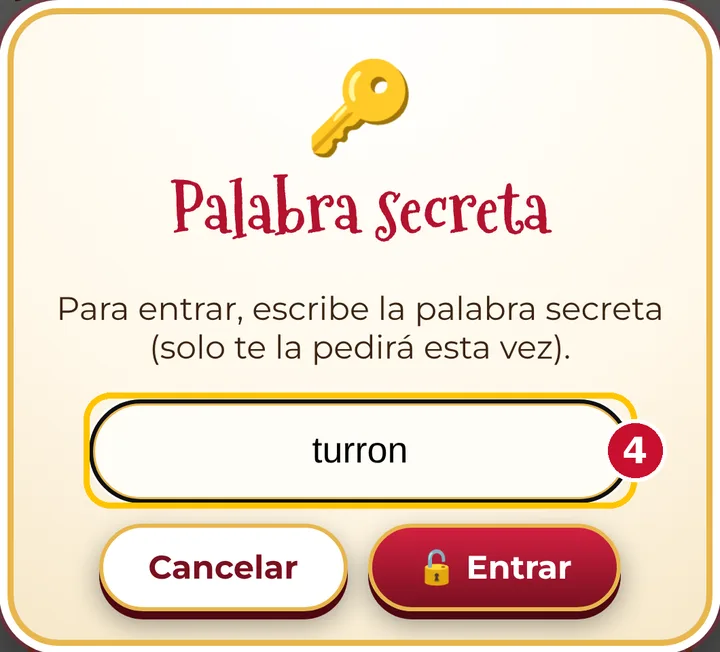
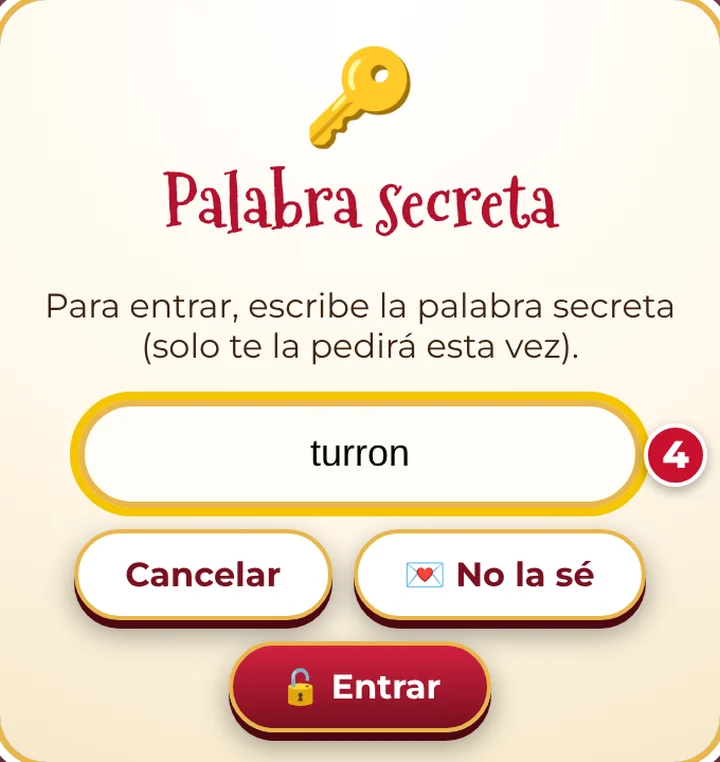
V29.4

diff --git a/help.js b/help.js
@@ -377,6 +377,7 @@ function userSections() {
     shot('word'),
     el('div', { class: 'hg-nums' },
       num(4, '🔑', L('La palabra secreta', 'La paraula secreta', 'The secret word'), L('Te la da la administradora (Mamá Noel). Es la misma para todos. Da igual mayúsculas o acentos.', 'Te la dona l’administradora (la Mare Noel). És la mateixa per a tothom. És igual majúscules o accents.', 'The admin (Mrs Claus) gives it to you. It is the same for everyone. Capitals and accents don’t matter.'))),
+    tip(L('¿No sabes la palabra secreta? Pulsa ', 'No saps la paraula secreta? Prem ', 'Don’t know the secret word? Tap '), btn(L('💌 No la sé', '💌 No la sé', '💌 I don’t know it')), L(' y después «Escribir a Mamá Noel»: se abre un correo ya escrito. Ella sabrá que quieres entrar y te enviará la palabra.', ' i després «Escriure a la Mare Noel»: s’obre un correu ja escrit. Ella sabrà que vols entrar i t’enviarà la paraula.', ' and then “Write to Mrs Claus”: a ready-written email opens. She’ll know you want to join and will send you the word.')),
     el('div', { class: 'hg-bigsep' }, '⬇'),
     P(L('Después, la app te enseña tu PIN en grande:', 'Després, l’app t’ensenya el teu PIN en gran:', 'Then the app shows you your PIN in big numbers:')),
     shot('pin'),
@@ -435,8 +436,8 @@ function userSections() {
       el('span', {}, L('Aparece una ', 'Apareix una ', 'A '), B(L('nota', 'nota', 'note')), L(' con el reto del día. ¡Léela con calma!', ' amb el repte del dia. Llegeix-la amb calma!', ' appears with the day’s challenge. Read it calmly!')),
       el('span', {}, L('Haz el reto y pulsa ', 'Fes el repte i prem ', 'Do the challenge and tap '), btn(FIN, 'red'), '.')),
     P(L('Si no puedes hacerlo en ese momento, pulsa ', 'Si no ho pots fer en aquell moment, prem ', 'If you can’t do it right then, tap '), btn(L('Cancelar (lo haré luego)', 'Cancel·lar (ho faré després)', 'Cancel (I’ll do it later)')), L(' y vuelve más tarde.', ' i torna més tard.', ' and come back later.')),
-    warn(L('Cada reto se responde ', 'Cada repte es respon ', 'Each challenge can be answered '), B(L('una sola vez', 'una sola vegada', 'only once')), L('. Si vuelves a abrir la casilla, verás lo que contestaste.', '. Si tornes a obrir la casella, veuràs el que vas contestar.', '. If you open the box again, you’ll see what you answered.')),
-    tip(L('Si te dejas un día, lo puedes hacer al día siguiente… ¡pero mejor no dejarlo pasar mucho!', 'Si et deixes un dia, el pots fer l’endemà… però millor no deixar-ho passar gaire!', 'If you miss a day, you can do it the next day… but better not to leave it too long!')),
+    P(L('Las preguntas se contestan ', 'Les preguntes es contesten ', 'Questions are answered '), B(L('una sola vez', 'un sol cop', 'only once')), L('. Los juegos los puedes repetir siempre que quieras: al volver a abrir una casilla hecha, verás el juego, los otros juegos del día y tu actividad.', '. Els jocs els pots repetir sempre que vulguis: quan tornis a obrir una casella feta, veuràs el joc, els altres jocs del dia i la teva activitat.', '. Games can be replayed whenever you like: when you reopen a finished box you’ll see the game, the day’s other games and your activity.')),
+    tip(L('Si te dejas un día, lo puedes hacer cuando puedas: las casillas de los días que ya han pasado siempre se pueden abrir. ¡Pero mejor no dejarlo pasar mucho!', 'Si et deixes un dia, el pots fer quan puguis: les caselles dels dies que ja han passat sempre es poden obrir. Però millor no deixar-ho passar gaire!', 'If you miss a day, you can do it whenever you can: boxes from past days can always be opened. But better not leave it too long!')),
   ] },
   (() => {
     if (!S.user) return { id: 'u-fig', ico: () => fig('galleta.png'), color: '#7c3aed', title: L('Las figuras: galleta, árbol y gnomo', 'Les figures: galeta, arbre i gnom', 'The figures: gingerbread, tree and gnome'), body: () => [
@@ -540,12 +541,46 @@ function userSections() {
     P(L('Para ganar cada premio puedes fallar o dejarte sin hacer ', 'Per guanyar cada premi pots fallar o deixar sense fer ', 'To win each prize you can get wrong or skip '), B(L('como mucho 3 casillas', 'com a màxim 3 caselles', 'at most 3 boxes')), L(', contando desde el día 1.', ', comptant des del dia 1.', ', counting from day 1.')),
     mock(L('🏆 Premios', '🏆 Premis', '🏆 Prizes'), ...[10, 15, 20, 25].map(g => el('div', { class: 'hg-prize' }, el('span', {}, '🎁'), el('div', {}, B(L(`Del día 1 al ${g}`, `Del dia 1 al ${g}`, `Day 1 to ${g}`)), el('small', {}, L('El regalo y cómo vas: ✅ bien · ❌ mal', 'El regal i com vas: ✅ bé · ❌ malament', 'The gift and how you’re doing: ✅ right · ❌ wrong')))))),
     P(L('Pulsa el ', 'Prem el ', 'Tap the '), B(L('trofeo 🏆', 'trofeu 🏆', 'trophy 🏆')), L(' de la franja para ver los regalos y cuántas casillas llevas bien y mal. Toca un regalo para ver el detalle.', ' de la franja per veure els regals i quantes caselles portes bé i malament. Toca un regal per veure’n el detall.', ' in the row to see the gifts and how many boxes you have right and wrong. Tap a gift to see the details.')),
+    P(L('Cuando consigues un regalo, sale un aviso con confeti (', 'Quan aconsegueixes un regal, surt un avís amb confeti (', 'When you win a present, a notice with confetti appears ('), B(L('solo una vez', 'només un cop', 'only once')), L('). Lo puedes volver a mirar siempre que quieras desde el trofeo 🏆.', '). El pots tornar a mirar sempre que vulguis des del trofeu 🏆.', '). You can look at it again whenever you like from the trophy 🏆.')),
     tip(L('Si un premio se escapa, ¡sigues jugando por los demás!', 'Si un premi s’escapa, continues jugant pels altres!', 'If you miss a prize, you keep playing for the others!')),
   ] },
-  { id: 'u-special', ico: '⭐', color: '#db2777', title: L('Días especiales', 'Dies especials', 'Special days'), body: () => [
-    P(L('Casi todos los días hay una pregunta con 4 respuestas, pero algunos días son ', 'Gairebé cada dia hi ha una pregunta amb 4 respostes, però alguns dies són ', 'Most days there is a question with 4 answers, but some days are '), B(L('juegos especiales', 'jocs especials', 'special games')), L(': atrapar gorros de Papá Noel, buscar renos, encontrar diferencias, una ruleta de misiones, un baile secreto… y el día 25, ¡tu cara en Papá Noel! 🎅', ': atrapar barrets del Pare Noel, buscar rens, trobar diferències, una ruleta de missions, un ball secret… i el dia 25, la teva cara al Pare Noel! 🎅', ': catching Santa hats, finding reindeer, spotting differences, a mission wheel, a secret dance… and on day 25, your face on Santa! 🎅')),
-    P(L('En cada juego la nota te explica qué hay que hacer. Si hay que grabarse o hacerse una foto, la app te ayuda a compartirla por WhatsApp.', 'A cada joc la nota t’explica què cal fer. Si t’has de gravar o fer una foto, l’app t’ajuda a compartir-la per WhatsApp.', 'In each game the note explains what to do. If you need to record yourself or take a photo, the app helps you share it on WhatsApp.')),
+  { id: 'u-special', ico: '🎮', color: '#db2777', title: L('Los juegos de cada día', 'Els jocs de cada dia', 'Each day’s games'), body: () => [
+    P(L('Cada casilla esconde un ', 'Cada casella amaga un ', 'Each box hides a '), B(L('juego o un reto', 'joc o un repte', 'game or a challenge')), L('. Estos son los 25:', '. Aquests són els 25:', '. Here are all 25:')),
+    el('div', { class: 'hg-list hg-days' },
+      item('🎅 1', L('Atrapa los 3 gorros + 4 en raya', 'Atrapa els 3 barrets + 4 en ratlla', 'Catch the 3 hats + Connect 4'), ''),
+      item('🎁 2', L('El duende de los regalos (comecocos)', 'El follet dels regals (menjacocos)', 'The present elf (Pac-Man style)'), ''),
+      item('🔢 3', L('Sudoku de Navidad', 'Sudoku de Nadal', 'Christmas sudoku'), ''),
+      item('🦌 4', L('Los renos traviesos', 'Els rens entremaliats', 'The cheeky reindeer'), ''),
+      item('🎨 5', L('Desafío de colores', 'Desafiament de colors', 'Colour challenge'), ''),
+      item('🔍 6', L('Las 5 diferencias', 'Les 5 diferències', 'Spot the 5 differences'), ''),
+      item('🚂 7', L('Puzle del tren', 'Puzle del tren', 'Train puzzle'), ''),
+      item('🎄 8', L('Decora el árbol + Dulce Navidad', 'Decora l’arbre + Dolç Nadal', 'Decorate the tree + Sweet Christmas'), ''),
+      item('🎵 9', L('Papá Noel dice', 'El Pare Noel diu', 'Santa says'), ''),
+      item('🪿 10', L('La oca de Navidad', 'L’oca de Nadal', 'The Christmas goose game'), ''),
+      item('🧭 11', L('Los regalos perdidos (laberinto)', 'Els regals perduts (laberint)', 'The lost presents (maze)'), ''),
+      item('🎲 12', L('El parchís de Navidad', 'El parxís de Nadal', 'Christmas ludo'), ''),
+      item('🦸 13', L('Tu superpoder + solitario', 'El teu superpoder + solitari', 'Your superpower + solitaire'), ''),
+      item('🛷 14', L('Atrapa los regalos', 'Atrapa els regals', 'Catch the presents'), ''),
+      item('🔴 15', L('Ordena las bolas de Navidad', 'Ordena les boles de Nadal', 'Sort the baubles'), ''),
+      item('📜 16', L('Diploma absurdo + marcianitos', 'Diploma absurd + marcianets', 'Absurd diploma + space invaders'), ''),
+      item('❌ 17', L('Tres en raya de Navidad', 'Tres en ratlla de Nadal', 'Christmas noughts and crosses'), ''),
+      item('🎅 18', L('Puzle de Papá Noel', 'Puzle del Pare Noel', 'Santa puzzle'), ''),
+      item('🔐 19', L('El código secreto de Papá Noel', 'El codi secret del Pare Noel', 'Santa’s secret code'), ''),
+      item('🎡 20', L('La ruleta del disparate', 'La ruleta del disbarat', 'The silly wheel'), ''),
+      item('🧩 21', L('Puzle deslizante', 'Puzle lliscant', 'Sliding puzzle'), ''),
+      item('🔤 22', L('Sopa de letras', 'Sopa de lletres', 'Word search'), ''),
+      item('✏ 23', L('Crucigrama de Navidad', 'Mots encreuats de Nadal', 'Christmas crossword'), ''),
+      item('💃 24', L('El baile secreto', 'El ball secret', 'The secret dance'), ''),
+      item('🎉 25', L('Memory + la serpiente de Navidad', 'Memory + la serp de Nadal', 'Memory + the Christmas snake'), '')),
+    P(L('En cada juego la nota te explica qué hay que hacer, y muchos tienen niveles y un botón 📜 con las normas. Si hay que grabarse o hacerse una foto, la app te ayuda a compartirla por WhatsApp.', 'A cada joc la nota t’explica què cal fer, i molts tenen nivells i un botó 📜 amb les normes. Si t’has de gravar o fer una foto, l’app t’ajuda a compartir-la per WhatsApp.', 'In each game the note explains what to do, and many have levels and a 📜 rules button. If you need to record yourself or take a photo, the app helps you share it on WhatsApp.')),
     tip(L('Algunos juegos tienen sonido: sube el volumen. 🔊', 'Alguns jocs tenen so: apuja el volum. 🔊', 'Some games have sound: turn the volume up. 🔊')),
+  ] },
+  { id: 'u-25', ico: '🎆', color: '#7a1020', title: L('El día 25 y el resumen de tu Navidad', 'El dia 25 i el resum del teu Nadal', 'Day 25 and your Christmas summary'), body: () => [
+    steps(el('span', {}, L('Al abrir la casilla 25 salen ', 'En obrir la casella 25 surten ', 'When you open box 25 you get '), B(L('dos juegos', 'dos jocs', 'two games')), L(': 🎴 Memory de Navidad y 🐍 la serpiente. ¡Hay que hacer los dos!', ': 🎴 Memory de Nadal i 🐍 la serp. Cal fer-los tots dos!', ': 🎴 Christmas memory and 🐍 the snake. You have to do both!')),
+      el('span', {}, L('Cuando acabas los dos: ', 'Quan acabes tots dos: ', 'When you finish both: '), B(L('¡fiesta!', 'festa!', 'party time!')), L(' Fuegos artificiales, «Ho, ho, ho», Merry Christmas y mucho confeti.', ' Focs artificials, «Ho, ho, ho», Merry Christmas i molt de confeti.', ' Fireworks, “Ho, ho, ho”, Merry Christmas and lots of confetti.')),
+      el('span', {}, L('Después sale ', 'Després surt ', 'Then you see '), B(L('el resumen de tu Navidad', 'el resum del teu Nadal', 'your Christmas summary')), L(': los 25 días con tus resultados, los juegos de cada día y tus actividades.', ': els 25 dies amb els teus resultats, els jocs de cada dia i les teves activitats.', ': all 25 days with your results, each day’s games and your activities.'))),
+    P(L('Desde el resumen puedes ', 'Des del resum pots ', 'From the summary you can '), B(L('tocar cualquier día', 'tocar qualsevol dia', 'tap any day')), L(' para volver a entrar y jugar otra vez, también a los dos juegos del 25. Y con «Guardar en PDF» te lo puedes guardar de recuerdo.', ' per tornar-hi a entrar i jugar un altre cop, també als dos jocs del 25. I amb «Desar en PDF» te’l pots guardar de record.', ' to go back in and play again, including the two games of day 25. And with “Save as PDF” you can keep it as a souvenir.')),
+    tip(L('Luego, al tocar la casilla 25, sale siempre el resumen. 🎄', 'Després, quan toquis la casella 25, sortirà sempre el resum. 🎄', 'After that, tapping box 25 always shows the summary. 🎄')),
   ] },
   { id: 'u-surprise', ico: '💌', color: '#e11d48', title: L('Sorpresas al entrar', 'Sorpreses en entrar', 'Surprises when you come in'), body: () => [
     P(L('Al abrir la app sale una ', 'En obrir l’app surt una ', 'When you open the app there is a '), B(L('bienvenida con nieve', 'benvinguda amb neu', 'snowy welcome')), L(' y la melodía de «Navidad, Navidad, dulce Navidad». En iPhone, toca la pantalla para oírla.', ' i la melodia de «Jingle Bells». A l’iPhone, toca la pantalla per sentir-la.', ' and the “Jingle Bells” tune. On iPhone, tap the screen to hear it.')),

diff --git a/app.js b/app.js
@@ -98,14 +98,40 @@ async function nameTaken(name, maybeMine) {
 const OWNER_MAIL_KEY = 'adv_owner_mail'; // este aparato recuerda el correo de la administradora (solo en su aparato)
 const savedOwnerMail = () => { try { return localStorage.getItem(OWNER_MAIL_KEY) || ''; } catch { return ''; } };
 // ---- palabra secreta de la familia: la pide la primera vez (si la administradora la ha puesto)
+// (V29.4) «No la sé»: popup que porta al correu de la Mare Noel, així ella sap qui vol entrar i li envia la paraula
+async function askKeyByMail() {
+  const who = (S._enterName || '').trim();
+  const subj = L3('Quiero entrar al Calendario de Adviento', 'Vull entrar al Calendari d’Advent', 'I want to join the Advent Calendar') + (who ? ' · ' + who : '');
+  const bodyTxt = L3(`Hola, Mamá Noel:\n\nSoy ${who || '…'} y quiero entrar al Calendario de Adviento. ¿Me puedes enviar la palabra secreta?\n\n¡Gracias!`,
+    `Hola, Mare Noel:\n\nSóc ${who || '…'} i vull entrar al Calendari d’Advent. Em pots enviar la paraula secreta?\n\nGràcies!`,
+    `Hi Mrs Claus,\n\nI’m ${who || '…'} and I’d like to join the Advent Calendar. Could you send me the secret word?\n\nThank you!`);
+  const href = 'mailto:' + CONTACT_EMAIL + '?subject=' + encodeURIComponent(subj) + '&body=' + encodeURIComponent(bodyTxt);
+  const copy = el('button', { type: 'button', class: 'btn btn-ghost no-delay ow-copy', onclick: async () => {
+    try { await navigator.clipboard.writeText(CONTACT_EMAIL); toast('📋 ' + L3('Correo copiado', 'Correu copiat', 'Email copied'), 2500); } catch { toast(CONTACT_EMAIL, 4000); } } }, '📋 ' + L3('Copiar el correo', 'Copiar el correu', 'Copy the email'));
+  await popup(el('div', { class: 'ow-box ow-ask' }, el('div', { class: 'ow-key' }, '💌'),
+    el('h2', {}, L3('¿No sabes la palabra secreta?', 'No saps la paraula secreta?', 'Don’t know the secret word?')),
+    el('p', {}, L3('¡No pasa nada! Escribe un correo a Mamá Noel: así sabrá que quieres entrar y te enviará la palabra secreta.', 'Cap problema! Escriu un correu a la Mare Noel: així sabrà que vols entrar i t’enviarà la paraula secreta.', 'No problem! Send Mrs Claus an email: she’ll know you want to join and will send you the secret word.')),
+    el('a', { class: 'btn btn-big no-delay ow-mailbtn', href }, '✉ ' + L3('Escribir a Mamá Noel', 'Escriure a la Mare Noel', 'Write to Mrs Claus')),
+    el('p', { class: 'ow-mail' }, CONTACT_EMAIL), copy,
+    el('p', { class: 'muted' }, L3('Cuando te llegue, vuelve aquí y escríbela.', 'Quan te l’enviï, torna aquí i escriu-la.', 'When you get it, come back here and type it.'))),
+    { cls: 'small', buttons: [{ label: '← ' + L3('Volver', 'Tornar', 'Back'), value: true, cls: 'btn-ghost' }] });
+}
 async function askFamily(wrong) {
+  for (;;) {
+    const r = await askFamilyOnce(wrong);
+    if (r !== 'ask') return r;
+    await askKeyByMail();
+  }
+}
+async function askFamilyOnce(wrong) {
   const inp = el('input', { type: 'text', class: 'ow-pw', autocomplete: 'off', autocapitalize: 'none', placeholder: L3('Palabra secreta', 'Paraula secreta', 'Secret word') });
   setTimeout(() => inp.focus(), 300);
   const ok = await popup(el('div', { class: 'ow-box' }, el('div', { class: 'ow-key' }, '🔑'),
     el('h2', {}, L3('Palabra secreta', 'Paraula secreta', 'Secret word')),
     el('p', {}, L3('Para entrar, escribe la palabra secreta (solo te la pedirá esta vez).', 'Per entrar, escriu la paraula secreta (només te la demanarà aquest cop).', 'To come in, type the secret word (you’ll only be asked once).')),
     inp, wrong ? el('p', { class: 'ow-err' }, '❄ ' + L3('Esa no es. Vuelve a probar.', 'No és aquesta. Torna-ho a provar.', 'That’s not it. Try again.')) : null),
-    { cls: 'small', buttons: [{ label: L3('Cancelar', 'Cancel·lar', 'Cancel'), value: false, cls: 'btn-ghost' }, { label: '🔓 ' + L3('Entrar', 'Entrar', 'Come in'), value: true }] });
+    { cls: 'small', buttons: [{ label: L3('Cancelar', 'Cancel·lar', 'Cancel'), value: false, cls: 'btn-ghost' }, { label: '💌 ' + L3('No la sé', 'No la sé', 'I don’t know it'), value: 'ask', cls: 'btn-ghost ow-dontknow' + (wrong ? ' pulse' : '') }, { label: '🔓 ' + L3('Entrar', 'Entrar', 'Come in'), value: true }] });
+  if (ok === 'ask') return 'ask';
   return ok && inp.value.trim() ? famKey(inp.value) : null;
 }
 // quien entró antes de que hubiera palabra secreta: se le pide una vez y se apunta en su ficha
@@ -362,13 +388,14 @@ async function boot() {
     }
     if (await store.authReady()) { try { (await import('./presence.js')).stopPresence(S); } catch {} await store.signOut(); }
     let r;
+    S._enterName = name; // (V29.4) per al correu «No la sé»
     try { r = await store.playerEnter(name, nameKey(name), pin, getLang(), askFamily); }
     catch (er) {
       const c = String(er.code || er.message || '');
       return '⚠ ' + (c.includes('too-many') ? L('Demasiados intentos. Espera un par de minutos y vuelve a probar.', 'Massa intents. Espera un parell de minuts i torna-ho a provar.', 'Too many tries. Wait a couple of minutes and try again.')
         : c.includes('network') ? L('No hay conexión a internet.', 'No hi ha connexió a internet.', 'No internet connection.') : c);
     }
-    if (r === 'cancel') return '🔒 ' + L('Para entrar hace falta la palabra secreta. Pídesela a Mamá Noel.', 'Per entrar cal la paraula secreta. Demana-la a la Mare Noel.', 'You need the secret word to come in. Ask Mrs Claus.');
+    if (r === 'cancel') return '🔒 ' + L('Para entrar hace falta la palabra secreta. Pulsa «No la sé» para pedírsela a Mamá Noel por correo.', 'Per entrar cal la paraula secreta. Prem «No la sé» per demanar-la a la Mare Noel per correu.', 'You need the secret word to come in. Tap “I don’t know it” to ask Mrs Claus by email.');
     if (r === 'badpin' || r === 'taken') return nameTaken(name, r === 'badpin');
     if (r === 'badpin') return '❄ ' + L(`El nombre «${name}» ya está cogido, o ese PIN no es el suyo. Si eres tú, revisa tu PIN. Si eres otra persona, pon el nombre con un número, por ejemplo ${name}2.`, `El nom «${name}» ja està agafat, o aquest PIN no és el seu. Si ets tu, revisa el teu PIN. Si ets una altra persona, posa el nom amb un número, per exemple ${name}2.`, `The name “${name}” is already taken, or that PIN isn’t theirs. If it’s you, check your PIN. If you’re someone else, add a number to the name, for example ${name}2.`);
     if (r === 'taken') return '❄ ' + L(`El nombre «${name}» ya está cogido. Ponlo con un número, por ejemplo ${name}2.`, `El nom «${name}» ja està agafat. Posa’l amb un número, per exemple ${name}2.`, `The name “${name}” is already taken. Add a number, for example ${name}2.`);

diff --git a/styles.css b/styles.css
@@ -3800,3 +3800,10 @@ body:has(.pch-wrap) .pch-fab { display: none; }
 .sum-games-list span { background: #fff6dc; border: 2px solid #e2b64f; border-radius: 999px; padding: 3px 10px; font-size: 14px; font-weight: 700; color: #3b2a1a; }
 /* (V29.3) al volver a una casilla hecha: su actividad, también */
 .note-body .day-act-done { margin: 16px auto 6px; max-width: 560px; text-align: left; }
+
+/* (V29.4) paraula secreta: «No la sé» → correu a la Mare Noel */
+.ow-ask .ow-mailbtn { display: inline-block; margin: 10px auto 6px; text-decoration: none; }
+.ow-ask .ow-mail { font-weight: 800; color: #7a1020; font-size: 17px; margin: 4px 0; word-break: break-all; }
+.ow-ask .ow-copy { margin: 4px auto 8px; }
+.ow-dontknow.pulse { animation: owPulse 1.2s ease-in-out infinite; }
+@keyframes owPulse { 0%,100% { transform: scale(1); } 50% { transform: scale(1.07); box-shadow: 0 0 0 6px #e2b64f55; } }

diff --git a/version.js b/version.js
@@ -3,7 +3,7 @@
 //  · Nueva versión: cambia solo APP_VERSION (y sube este archivo + los que hayan cambiado).
 //  · El resto de archivos ya no llevan el número de versión (…?v=), así no hay que tocarlos.
 // =====================================================================
-export const APP_VERSION = 'V29.3';
+export const APP_VERSION = 'V29.4';
 
 // Correo que ven los jugadores (la «i» de la pantalla de la nieve)
 export const CONTACT_EMAIL = 'bisbetjoy@gmail.com';
